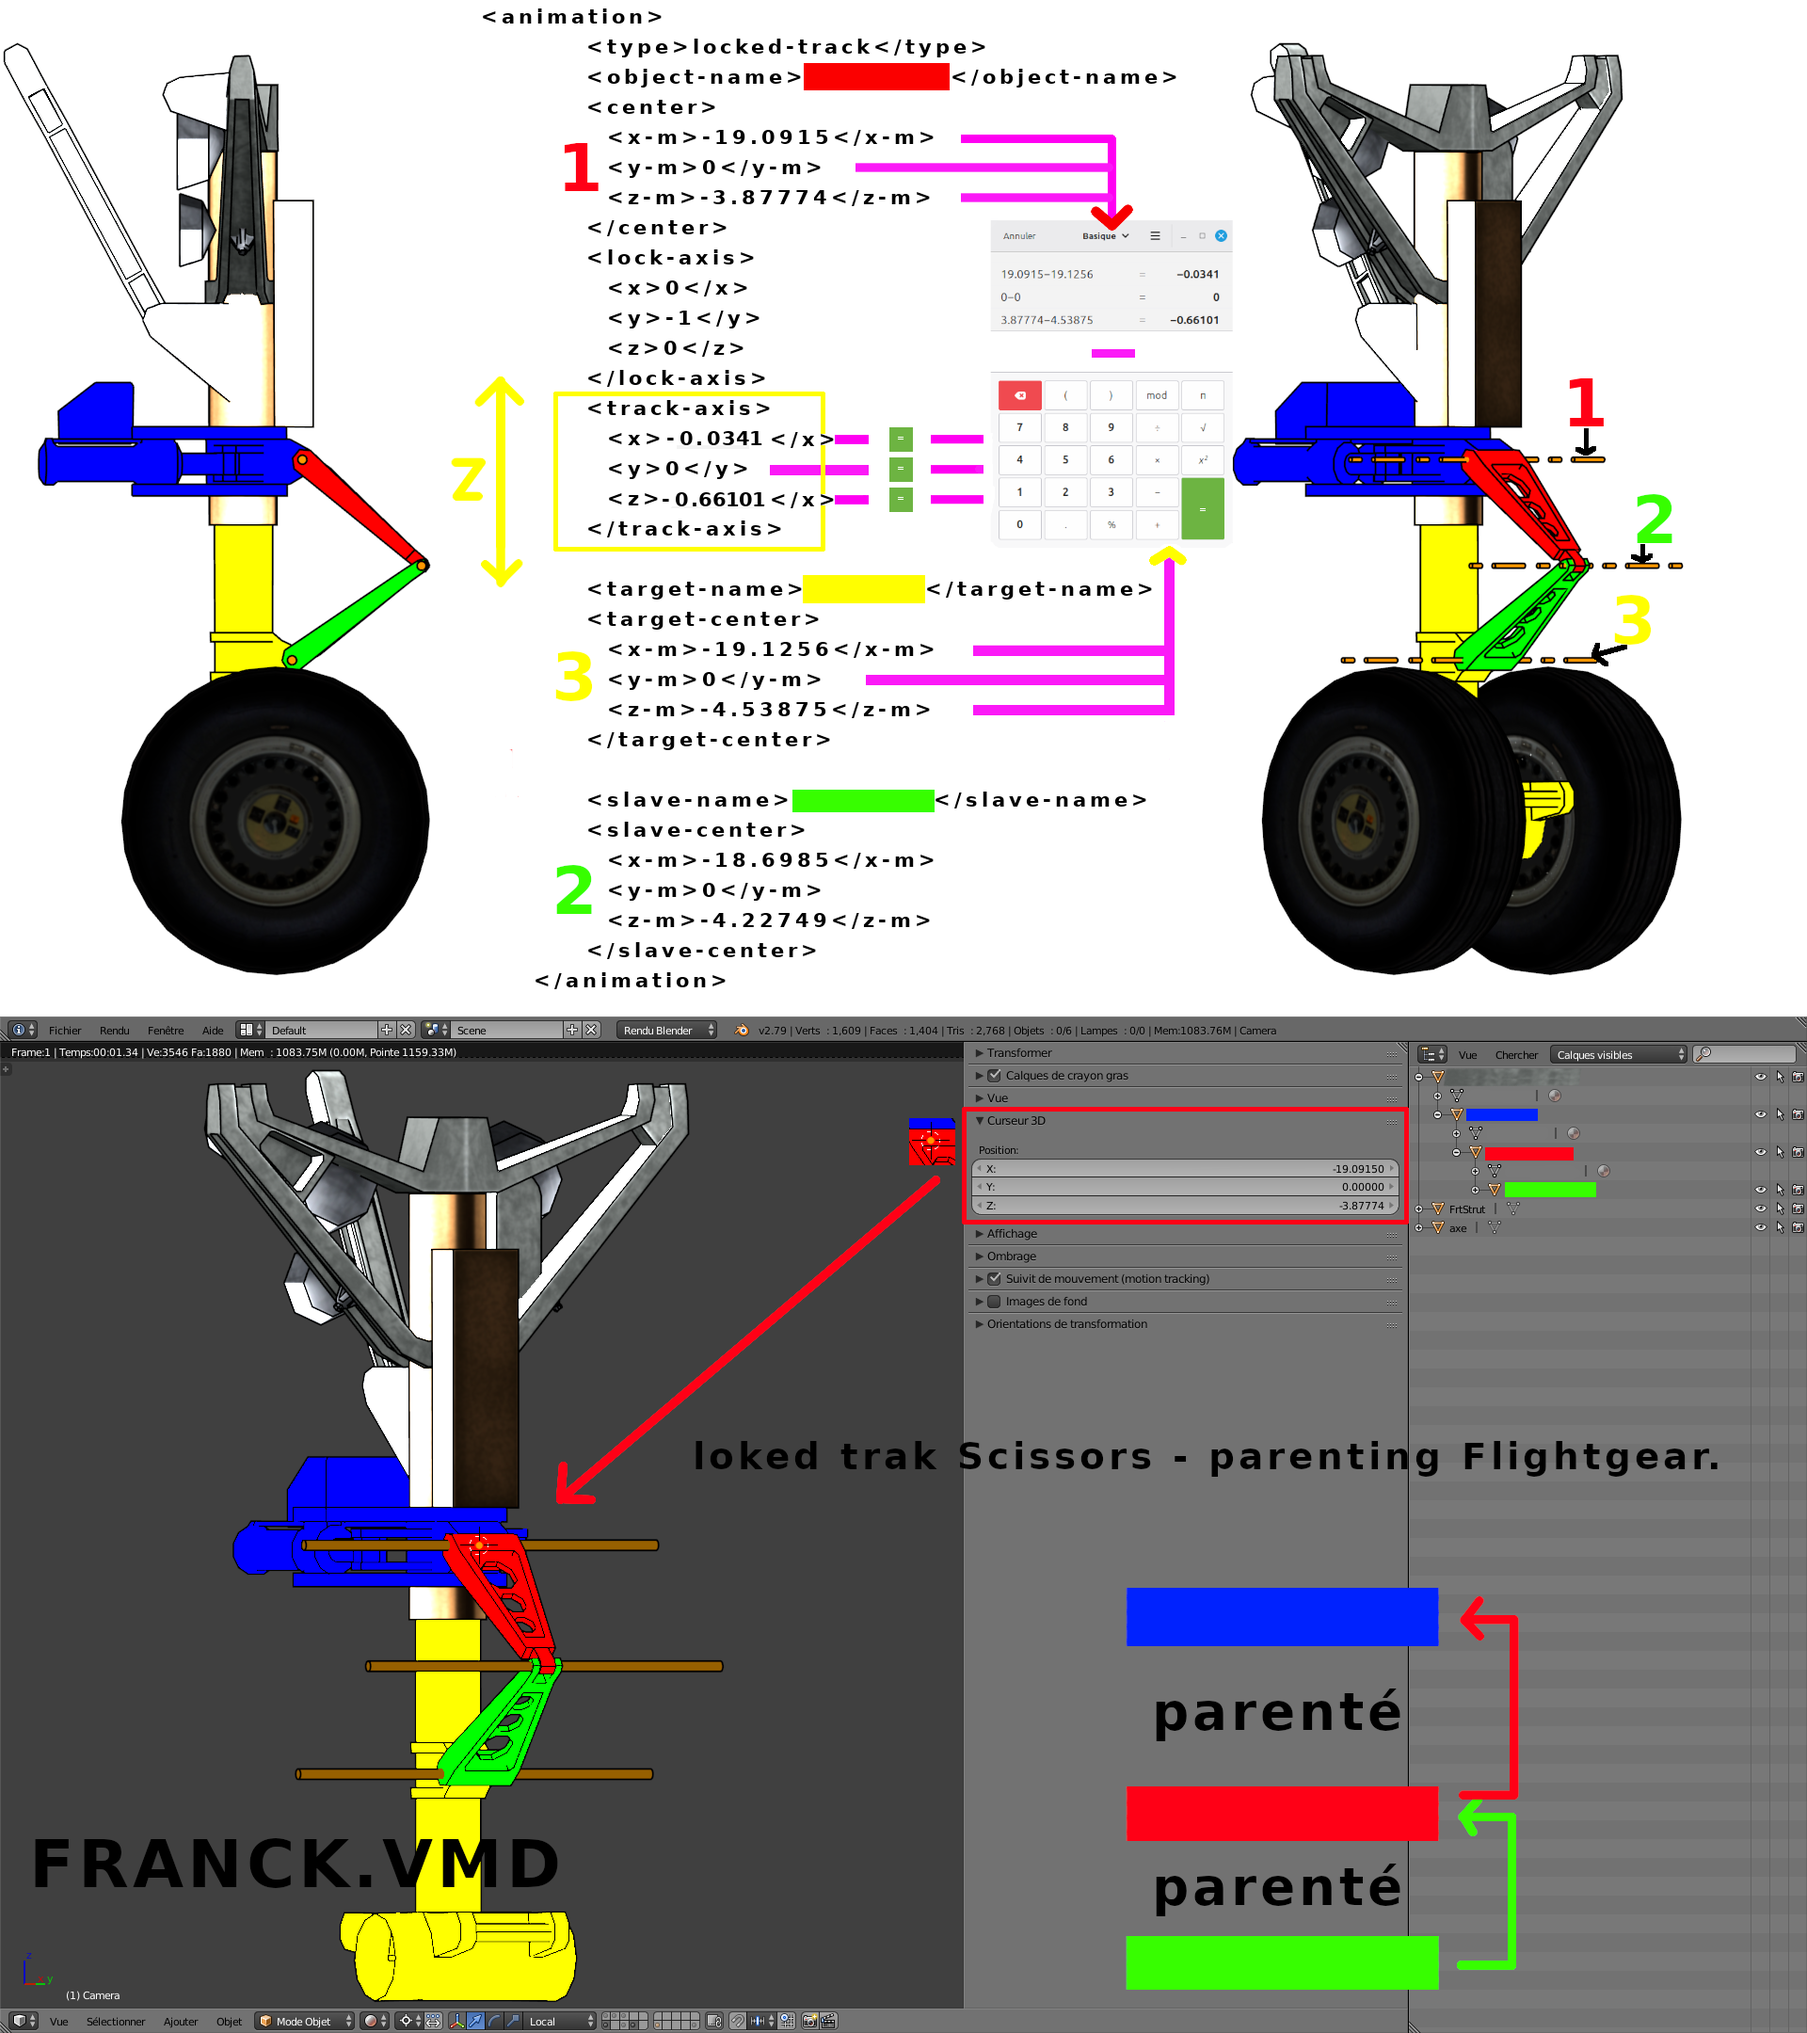
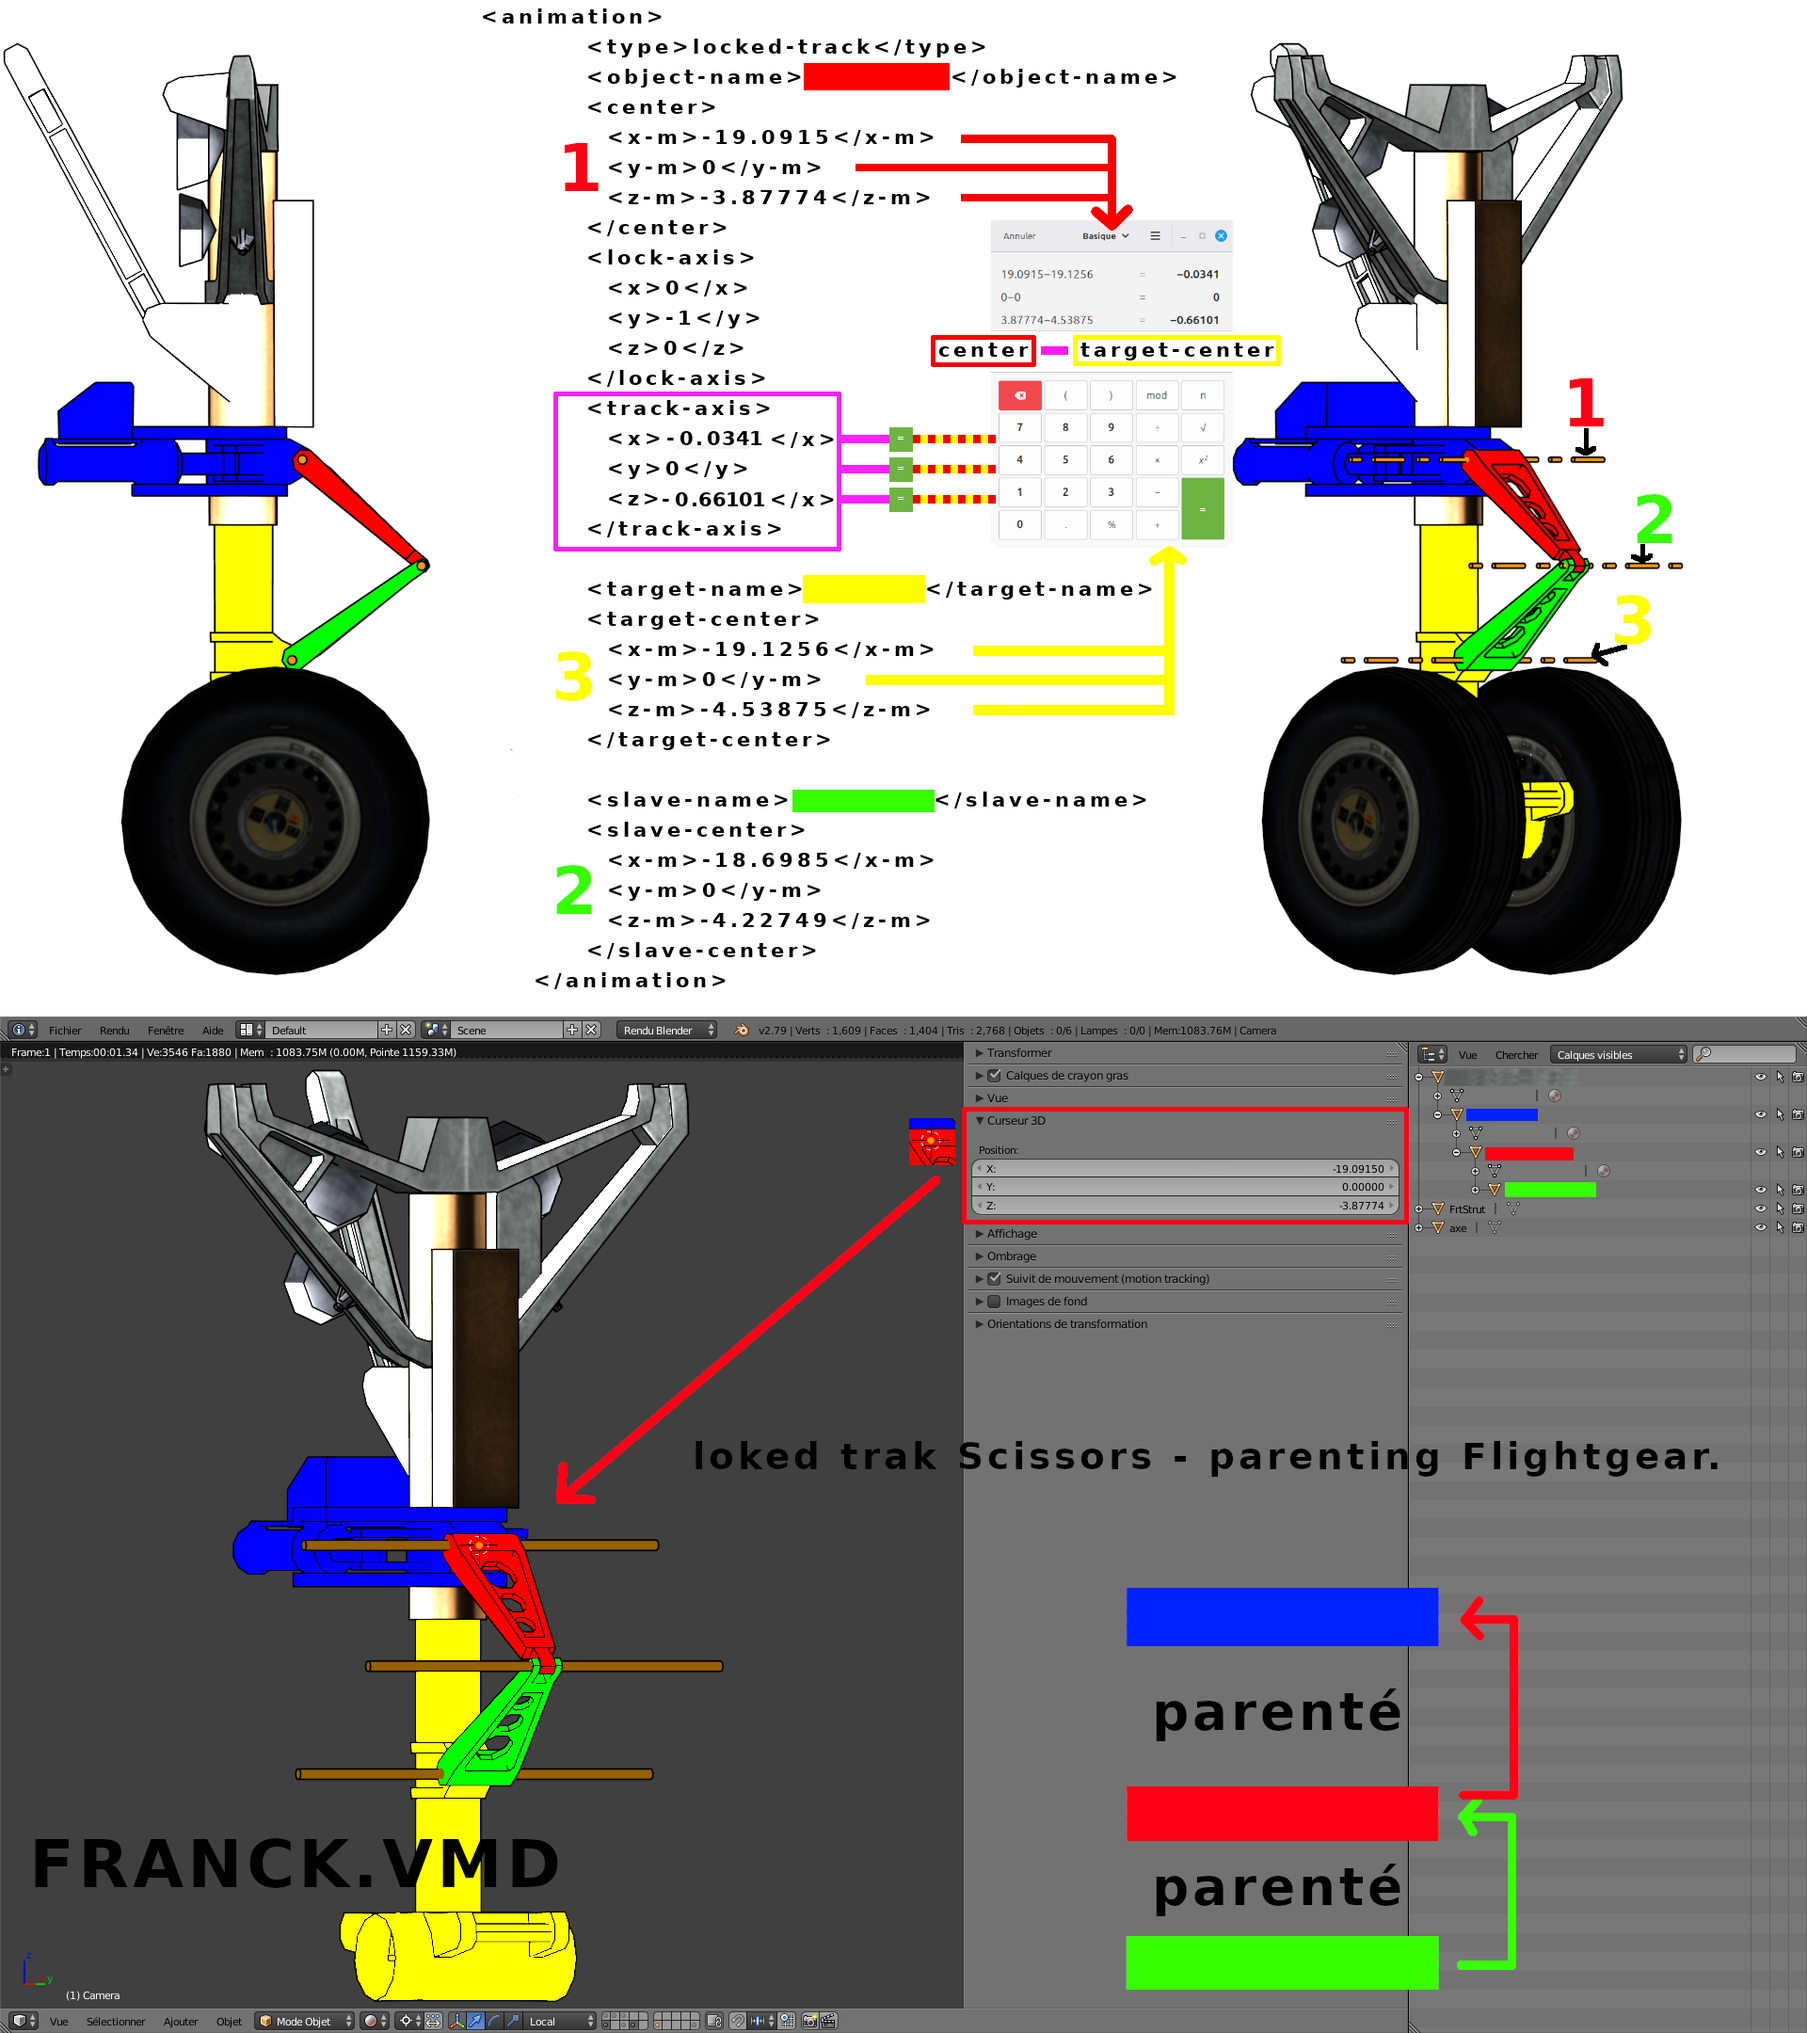
png and README

diff --git a/README.md b/README.md
@@ -1,5 +1,5 @@
 [![FlightGear locked-track Scissors B772](https://i.ibb.co/pLv14mM/Scissors.jpg)](https://www.youtube.com/watch?v=n01CMdxiw9Y&t=0s "FlightGear locked-track Scissors B772")
 
-![Image](https://i.ibb.co/1r6XRrM/loked-trak-Scissors.jpg)
+![Image](https://i.ibb.co/wrxXDX9Q/loked-trak-Scissors-parenting-Flightgear.jpg)
 
 
